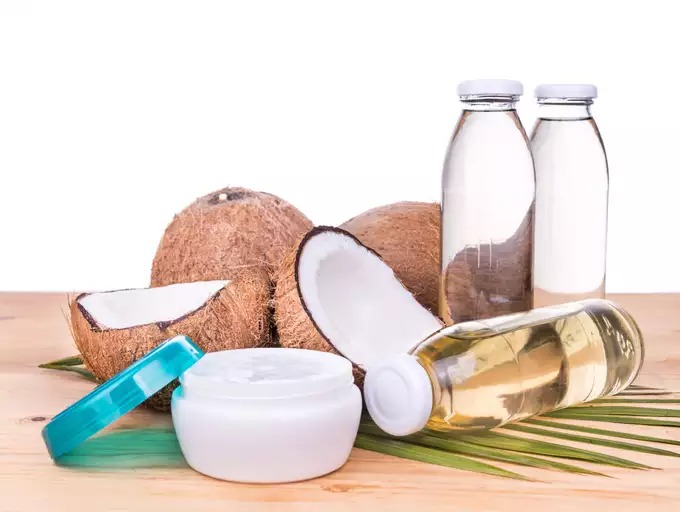
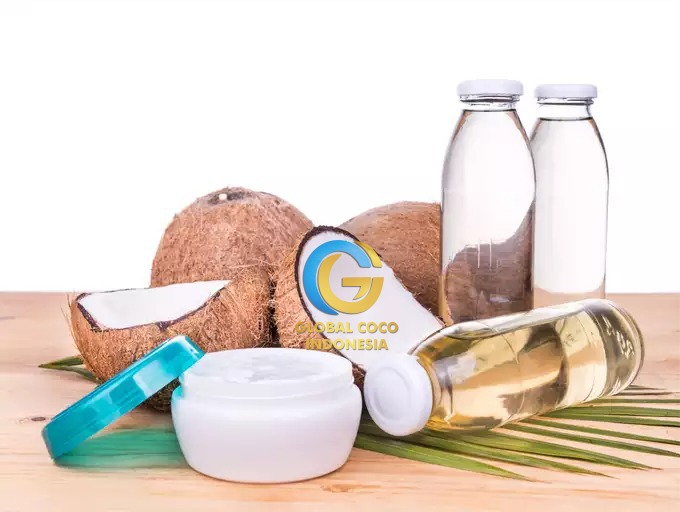
revisi new

Changed region(s): [[0.4324, 0.4688, 0.5868, 0.6875]]

diff --git a/database/seeds/Product.php b/database/seeds/Product.php
@@ -30,12 +30,12 @@ class Product extends Seeder
         DB::table('product')->insert([
             'title' => 'COPRA',
             'description' => 'Copra is the dried flesh of coconuts. Every adult coconut tree bears 50-75 nuts that can be harvested, split with machetes and left to dry in the sun. The copra is then scraped out of the husk and gets to dry further on racks. Finally, it is packed in jute bags and transported to a processing facility.',
-            'image' => '/storage/product/product1.png'           
+            'image' => '/storage/product/product1.jpeg'           
         ]);
         DB::table('product')->insert([
             'title' => 'COCONUT FIBER',
             'description' => 'Coconut fiber, is a natural fiber extracted from the husk of coconut[1] and used in products such as floor mats, doormats, brushes and mattresses. Coir is the fibrous material found between the hard, internal shell and the outer coat of a coconut. Other uses of brown coir (made from ripe coconut) are in upholstery padding, sacking and horticulture. White coir, harvested from unripe coconuts, is used for making finer brushes, string, rope and fishing net',
-            'image' => '/storage/product/product4.png'           
+            'image' => '/storage/product/product4.jpeg'           
         ]);
         DB::table('product')->insert([
             'title' => 'COPRA MEAL',
@@ -45,12 +45,12 @@ class Product extends Seeder
         DB::table('product')->insert([
             'title' => 'COCONUT PEAT BLOCKS',
             'description' => 'Cocopeat blocks are considered an ideal growing medium. The cocopeat powder thus obtained is sieved, washed, dried and finally compressed into blocks. The blocks can be used for a wide range of planting requirements. Coir is known for its natural rooting hormones and anti-fungal properties. We also ensure secure packaging of the cocopeat blocks.            ',
-            'image' => '/storage/product/product6.png'           
+            'image' => '/storage/product/product6.jpeg'           
         ]);
         DB::table('product')->insert([
             'title' => 'DESICCATED COCONUT',
             'description' => 'Desiccated Coconut is a grated, dried (3% moisture content max.), and unsweetened fresh meat or kernel of a mature fruit of coconut. Desiccated Coconuts are graded by its cutting size, for example, fine grade and medium grade where fine grade is smaller particle size than the medium grade.',
-            'image' => '/storage/product/product7.png'           
+            'image' => '/storage/product/product7.jpeg'           
         ]);
        
     }

diff --git a/resources/views/user/layout/header.blade.php b/resources/views/user/layout/header.blade.php
@@ -13,7 +13,7 @@
 
 		<!-- Web Fonts -->
 		<link href="https://fonts.googleapis.com/css?family=Lato:300,400,400i|Montserrat:400,700" rel="stylesheet" />
-
+		<link rel="icon" href="{{asset('megakit/img/logo.png')}}" sizes="16x16" type="image/png">
 		<!-- Vendor Styles -->
 		<link href="{{asset('megakit/vendor/bootstrap/css/bootstrap.min.css')}}" rel="stylesheet" type="text/css" />
 		<link href="{{asset('megakit/css/animate.css')}}" rel="stylesheet" type="text/css" />
@@ -69,8 +69,8 @@
 							<!-- Logo -->
 							<div class="s-header__logo">
 								<a href="index.html" class="s-header__logo-link">
-                                    <h2 class="g-color--primary g-font-size-24--xs" style="margin: 0">Global Coco</h2>
-                                    <h4 class="g-color--gray-light g-font-size-24--xs" style="margin: 0">INDONESIA</h4>
+									<img class="s-header__logo-img s-header__logo-img-default img-fluid" src="{{asset('megakit/img/logo.png')}}" width="60px" />
+									<img class="s-header__logo-img s-header__logo-img-shrink img-fluid" src="{{asset('megakit/img/logo.png')}}" width="60px" />
 									{{-- <img class="s-header__logo-img s-header__logo-img-default" src="{{asset('megakit/img/logo.png')}}" />
 									<img class="s-header__logo-img s-header__logo-img-shrink" src="{{asset('megakit/img/logo-dark.png')}}" /> --}}
 								</a>

diff --git a/database/seeds/Gallery.php b/database/seeds/Gallery.php
@@ -15,10 +15,10 @@ class Gallery extends Seeder
             'image' => '/storage/gallery/1.jpeg'           
         ]);
         DB::table('gallery')->insert([
-            'image' => '/storage/gallery/2.png'           
+            'image' => '/storage/gallery/2.jpeg'           
         ]);
         DB::table('gallery')->insert([
-            'image' => '/storage/gallery/3.png'           
+            'image' => '/storage/gallery/3.jpeg'           
         ]);
         DB::table('gallery')->insert([
             'image' => '/storage/gallery/4.jpeg'           

diff --git a/database/seeds/Rempah.php b/database/seeds/Rempah.php
@@ -12,10 +12,10 @@ class Rempah extends Seeder
     public function run()
     {
         DB::table('rempah')->insert([
-            'image' => '/storage/rempah/1.jpeg'           
+            'image' => '/storage/rempah/1.jpg'           
         ]);
         DB::table('rempah')->insert([
-            'image' => '/storage/rempah/2.jpeg'           
+            'image' => '/storage/rempah/2.jpg'           
         ]);
     }
 }
